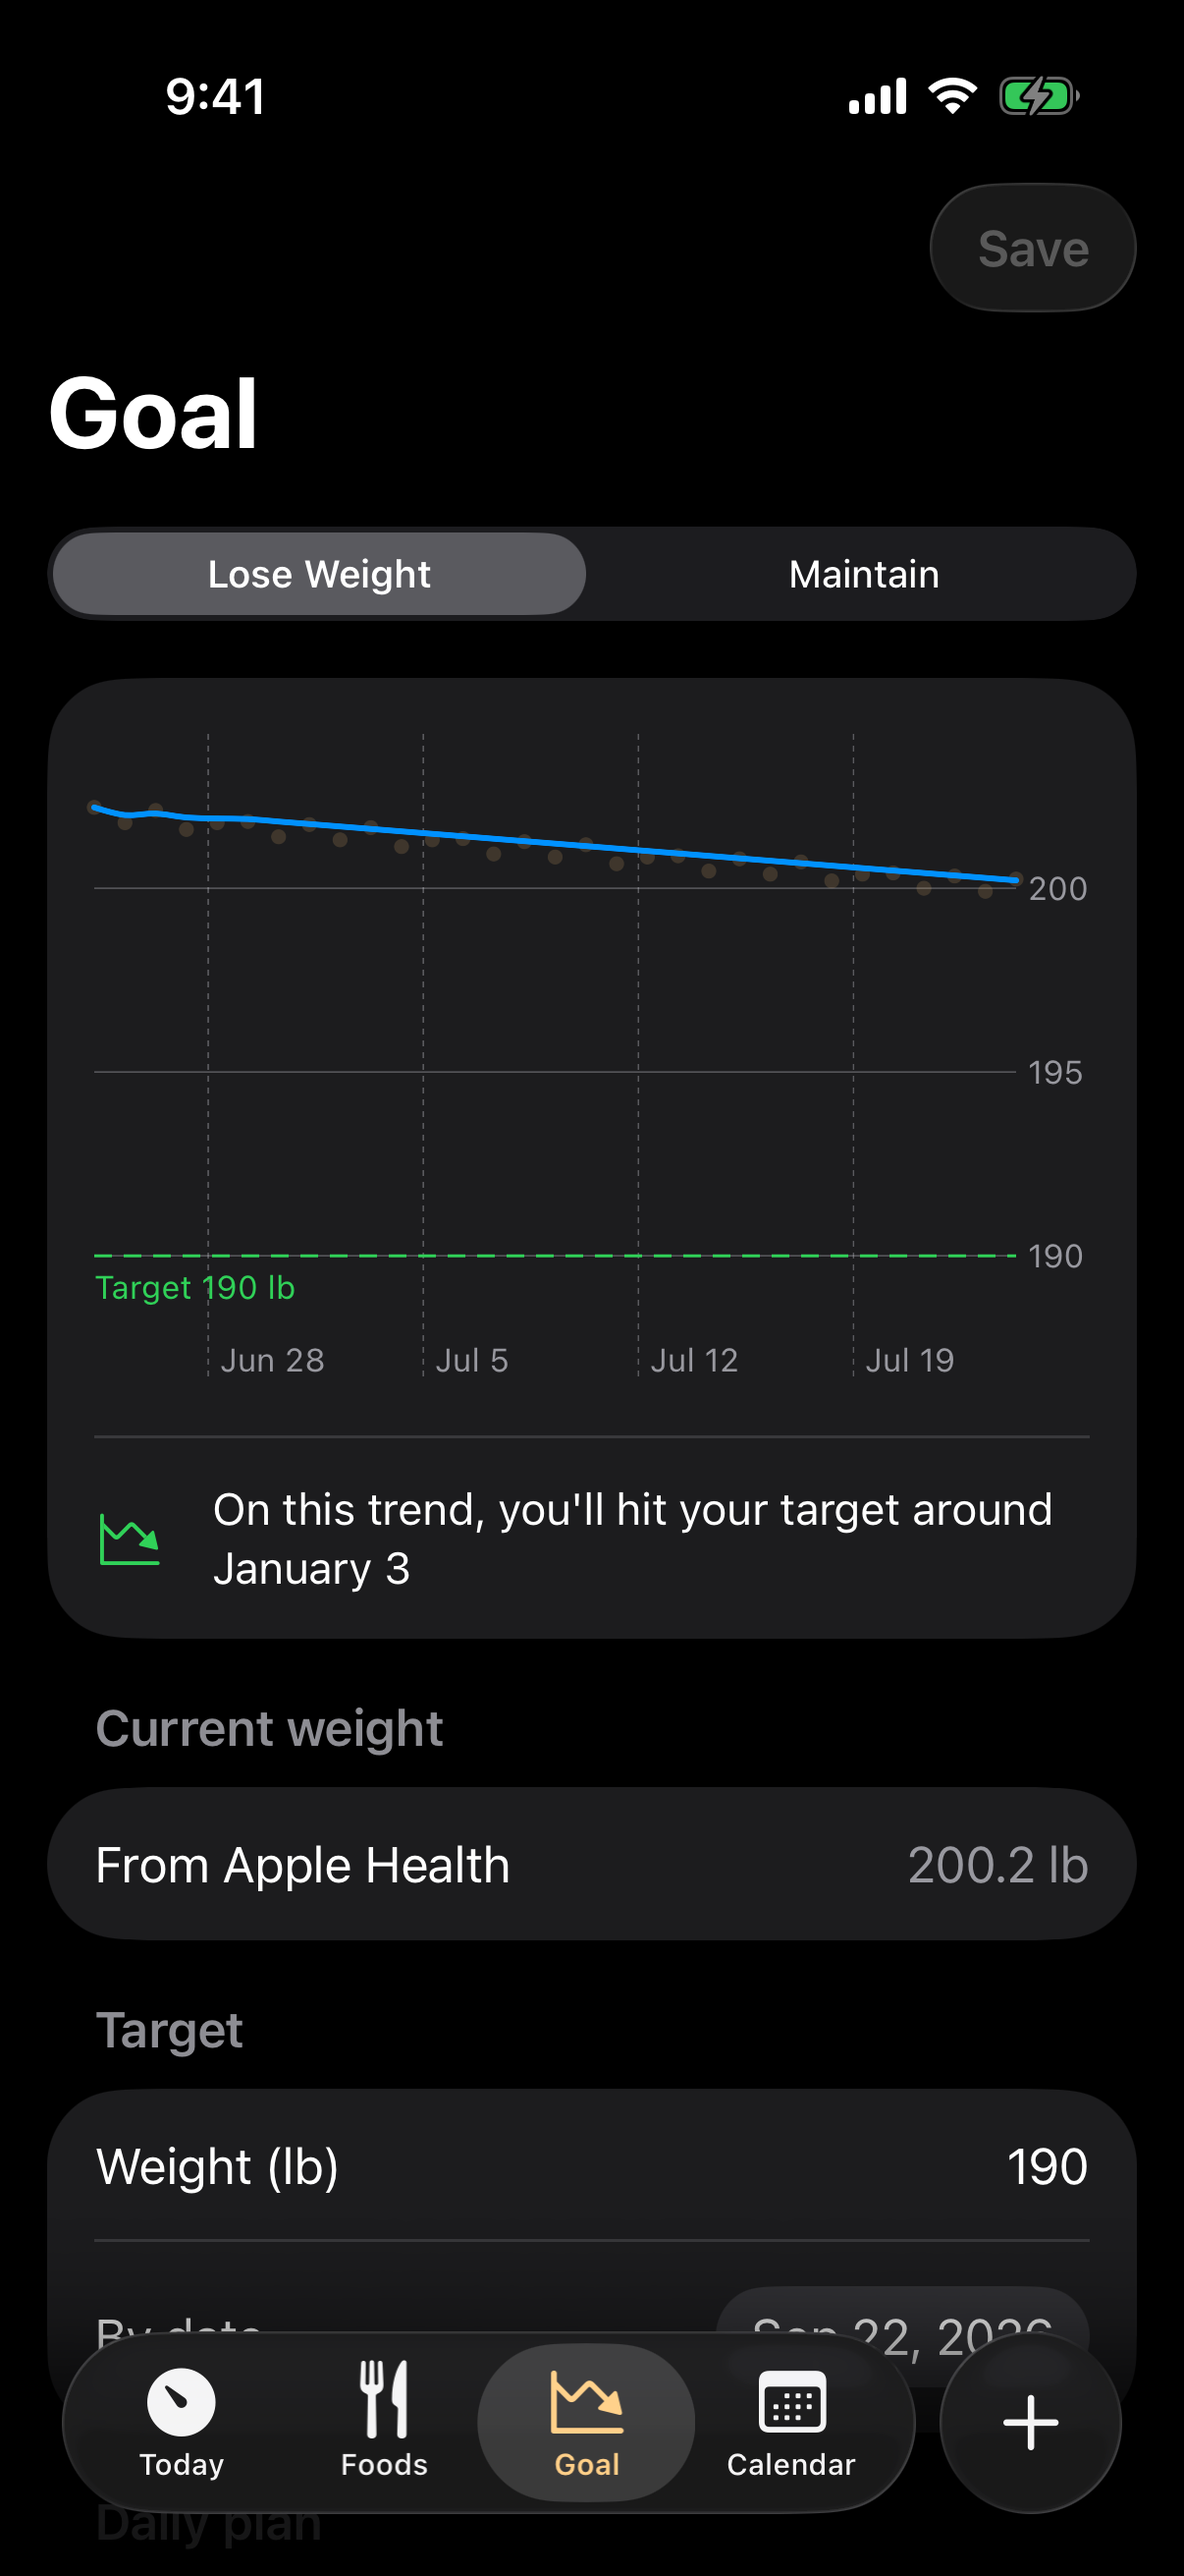
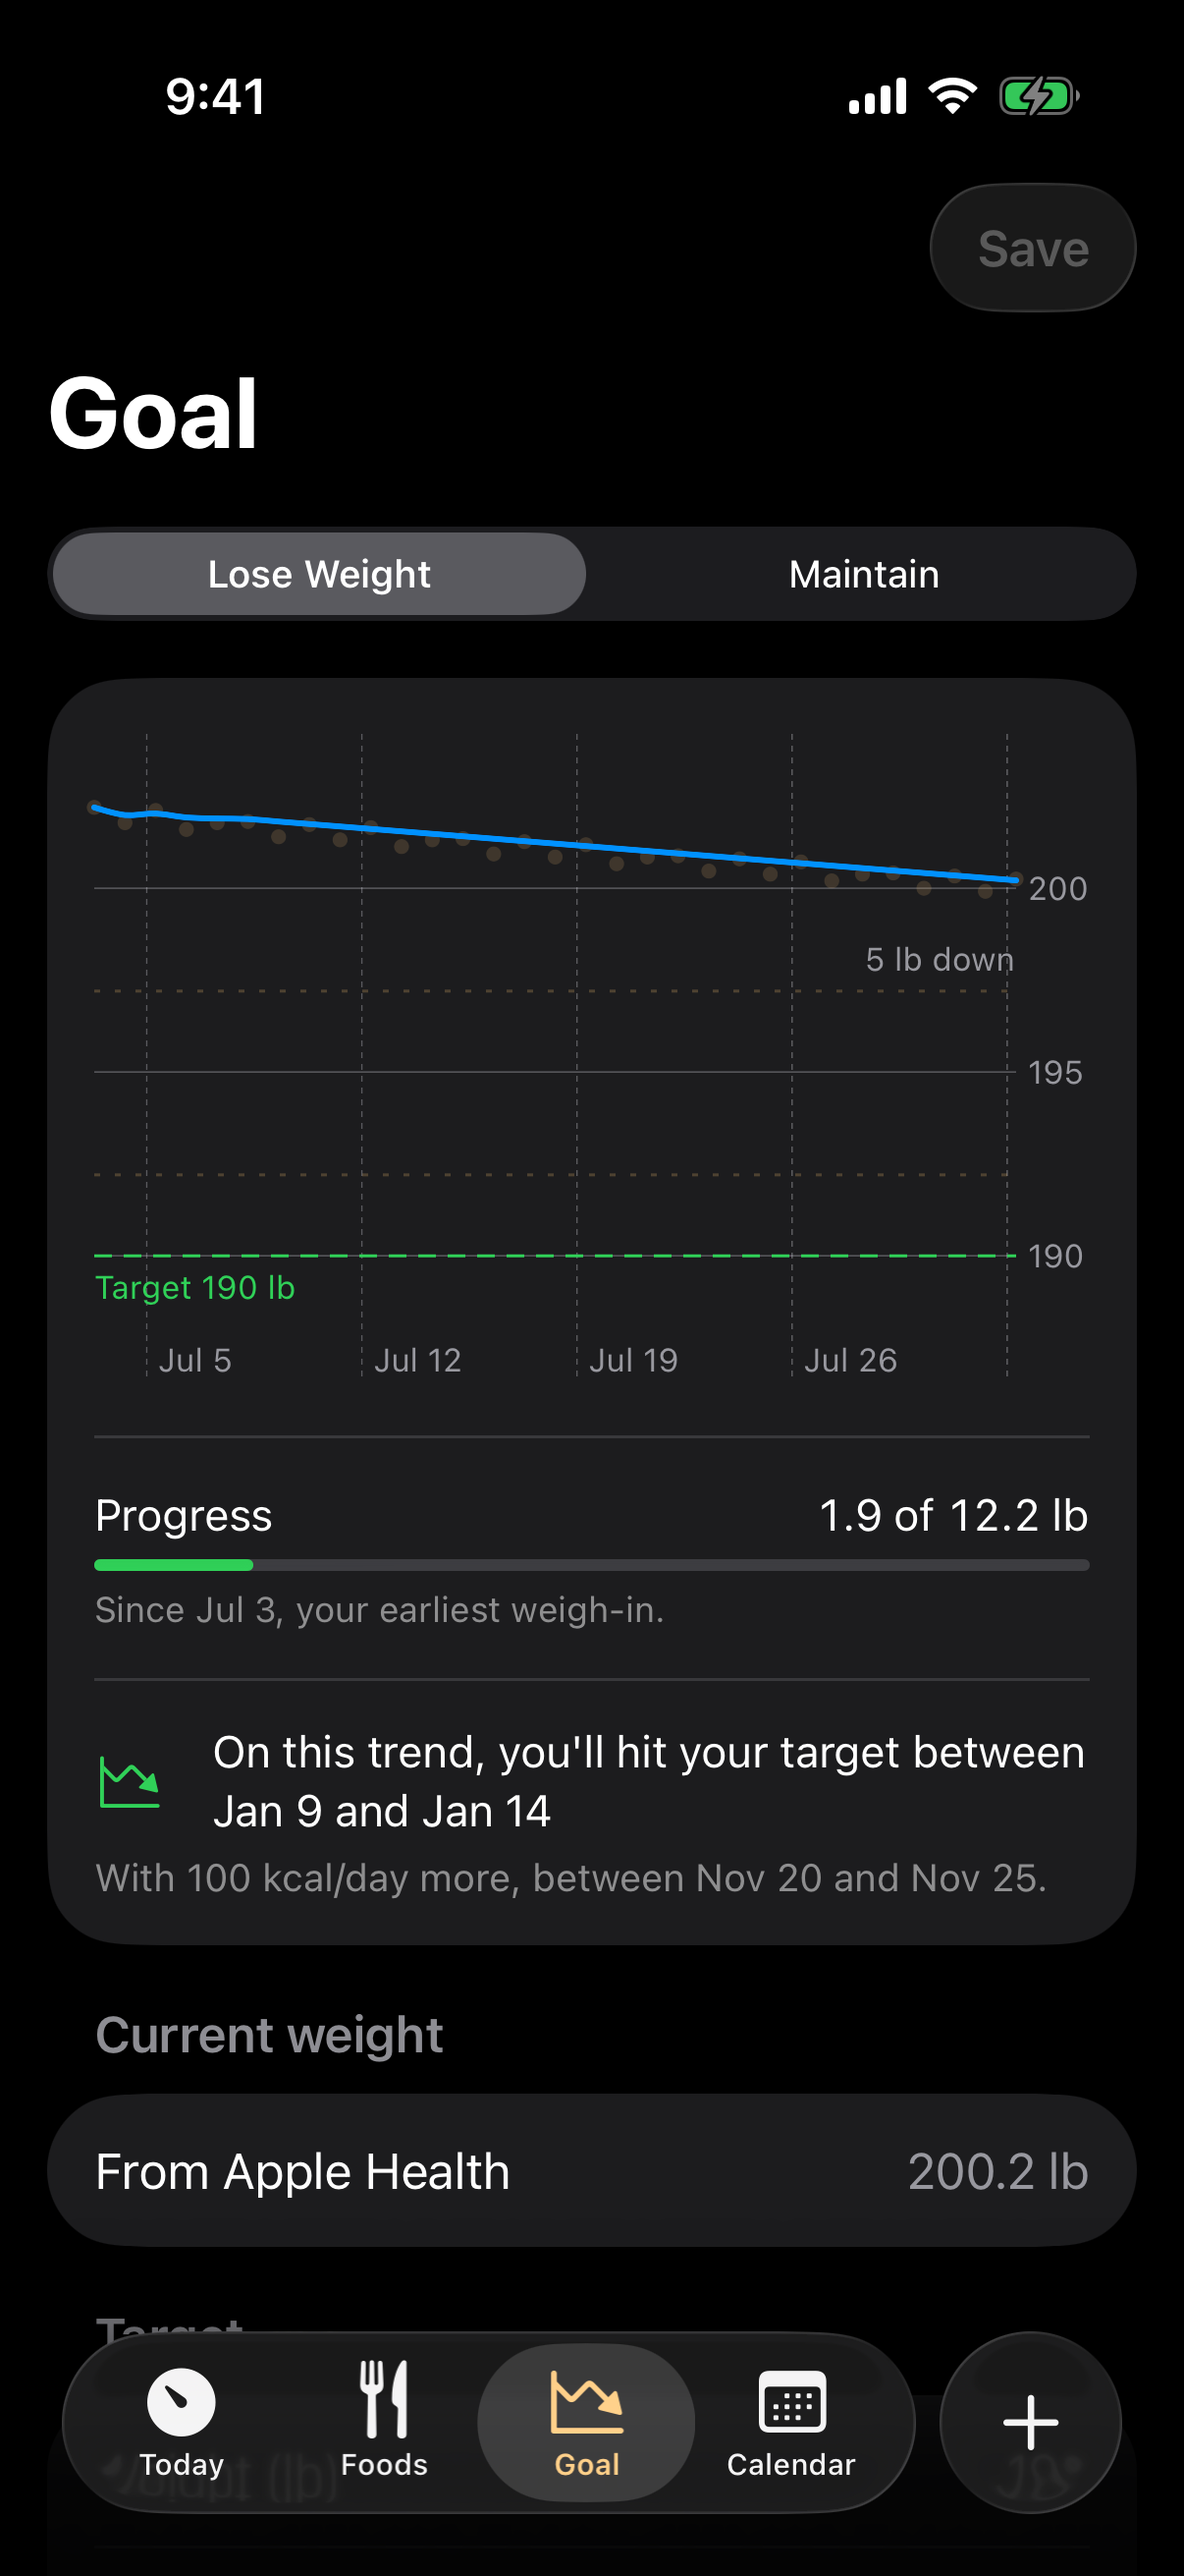
Recapture Today, Foods and Goal
Today: Resting reads the CREDITED figure now (1,743, not the 1,120 the
old shot showed), and the gauge fills by area. Foods: the entry doors
are gone, so the library leads the library screen. Goal: the shot
predated the motivation UI entirely — it still promised a single
projected date where the app now shows a range, a progress bar and the
"+100 kcal/day" line.

Calendar is deliberately NOT replaced. A capture on the 2nd puts the
seeded three days of history either side of a month boundary, so the
grid shows one badge where the committed shot (taken on the 24th) shows
three. Seeding more history can't fix that — only the capture date can.
The day card inside it is stale by a line of grammar; the month grid,
which is what the asset is for, is not. Redo it mid-month.

Both appearances where the repo carries both; foods is README-only and
light-only. All 1206×2622, checked against the committed files before
copying — an iPhone 16 run silently resizes every asset.

diff --git a/Onigiri/Views/TodayView.swift b/Onigiri/Views/TodayView.swift
@@ -618,14 +618,31 @@ struct TodayView: View {
         guard dayBurn > 0 else { return nil }
         return CalorieBudget.completedDayPlan(
             dayBurnKcal: dayBurn,
-            // Maintenance has no deficit target; a day uses the target
-            // snapshotted then, falling back to the current one for days
-            // that predate snapshots (StreakCalendar's rule).
-            requiredDailyDeficit: goal.isMaintenance
-                ? 0
-                : (DeficitTargetHistory.target(on: model.selectedDate)
-                    ?? currentRequiredDeficit(for: goal) ?? 0)
+            requiredDailyDeficit: requiredDeficit(for: goal)
         )
+    }
+
+    /// The target the browsed day is judged by.
+    ///
+    /// TODAY derives from the live goal. A PAST day uses the target
+    /// snapshotted then (StreakCalendar's rule — history keeps the bar
+    /// it was actually held to), falling back to the derived one for
+    /// days that predate snapshots.
+    ///
+    /// Today used to read the snapshot too, and that let a stale stamp
+    /// outrank the real goal: `DailyPlanLoader` records today's target
+    /// on every load, and on a FRESH INSTALL it runs before the goal is
+    /// mirrored into the App Group — so it stamps 0 ("no goal"), and
+    /// Today then showed the maintenance framing, "Daily budget", to
+    /// someone who had just set a weight goal. It also meant editing
+    /// the goal didn't move Today until something re-stamped. The live
+    /// goal is the truth for the day in progress; the snapshot is for
+    /// days that are over.
+    private func requiredDeficit(for goal: GoalSettings) -> Double {
+        if goal.isMaintenance { return 0 }
+        if model.isToday { return currentRequiredDeficit(for: goal) ?? 0 }
+        return DeficitTargetHistory.target(on: model.selectedDate)
+            ?? currentRequiredDeficit(for: goal) ?? 0
     }
 
     /// The deficit target today's plan implies — the fallback for a past

diff --git a/README.md b/README.md
@@ -32,7 +32,7 @@ Runs on iPhone, iPad, and Apple Watch (iOS 18 / watchOS 10 or newer).
 
 | Foods | Goal | Calendar |
 |---|---|---|
-| <img src="docs/showcase/light/foods.png" width="260" alt="Food library with meals and foods"> | <img src="docs/showcase/light/goal.png" width="260" alt="Goal: weight trend with projection and the daily plan"> | <img src="docs/showcase/light/calendar.png" width="260" alt="Calendar: month grid of earned onigiri and streaks"> |
+| <img src="docs/showcase/light/foods.png" width="260" alt="Food library with meals and foods"> | <img src="docs/showcase/light/goal.png" width="260" alt="Goal: weight trend, progress toward the target, and the projected date range"> | <img src="docs/showcase/light/calendar.png" width="260" alt="Calendar: month grid of earned onigiri and streaks"> |
 
 ### iPad
 
